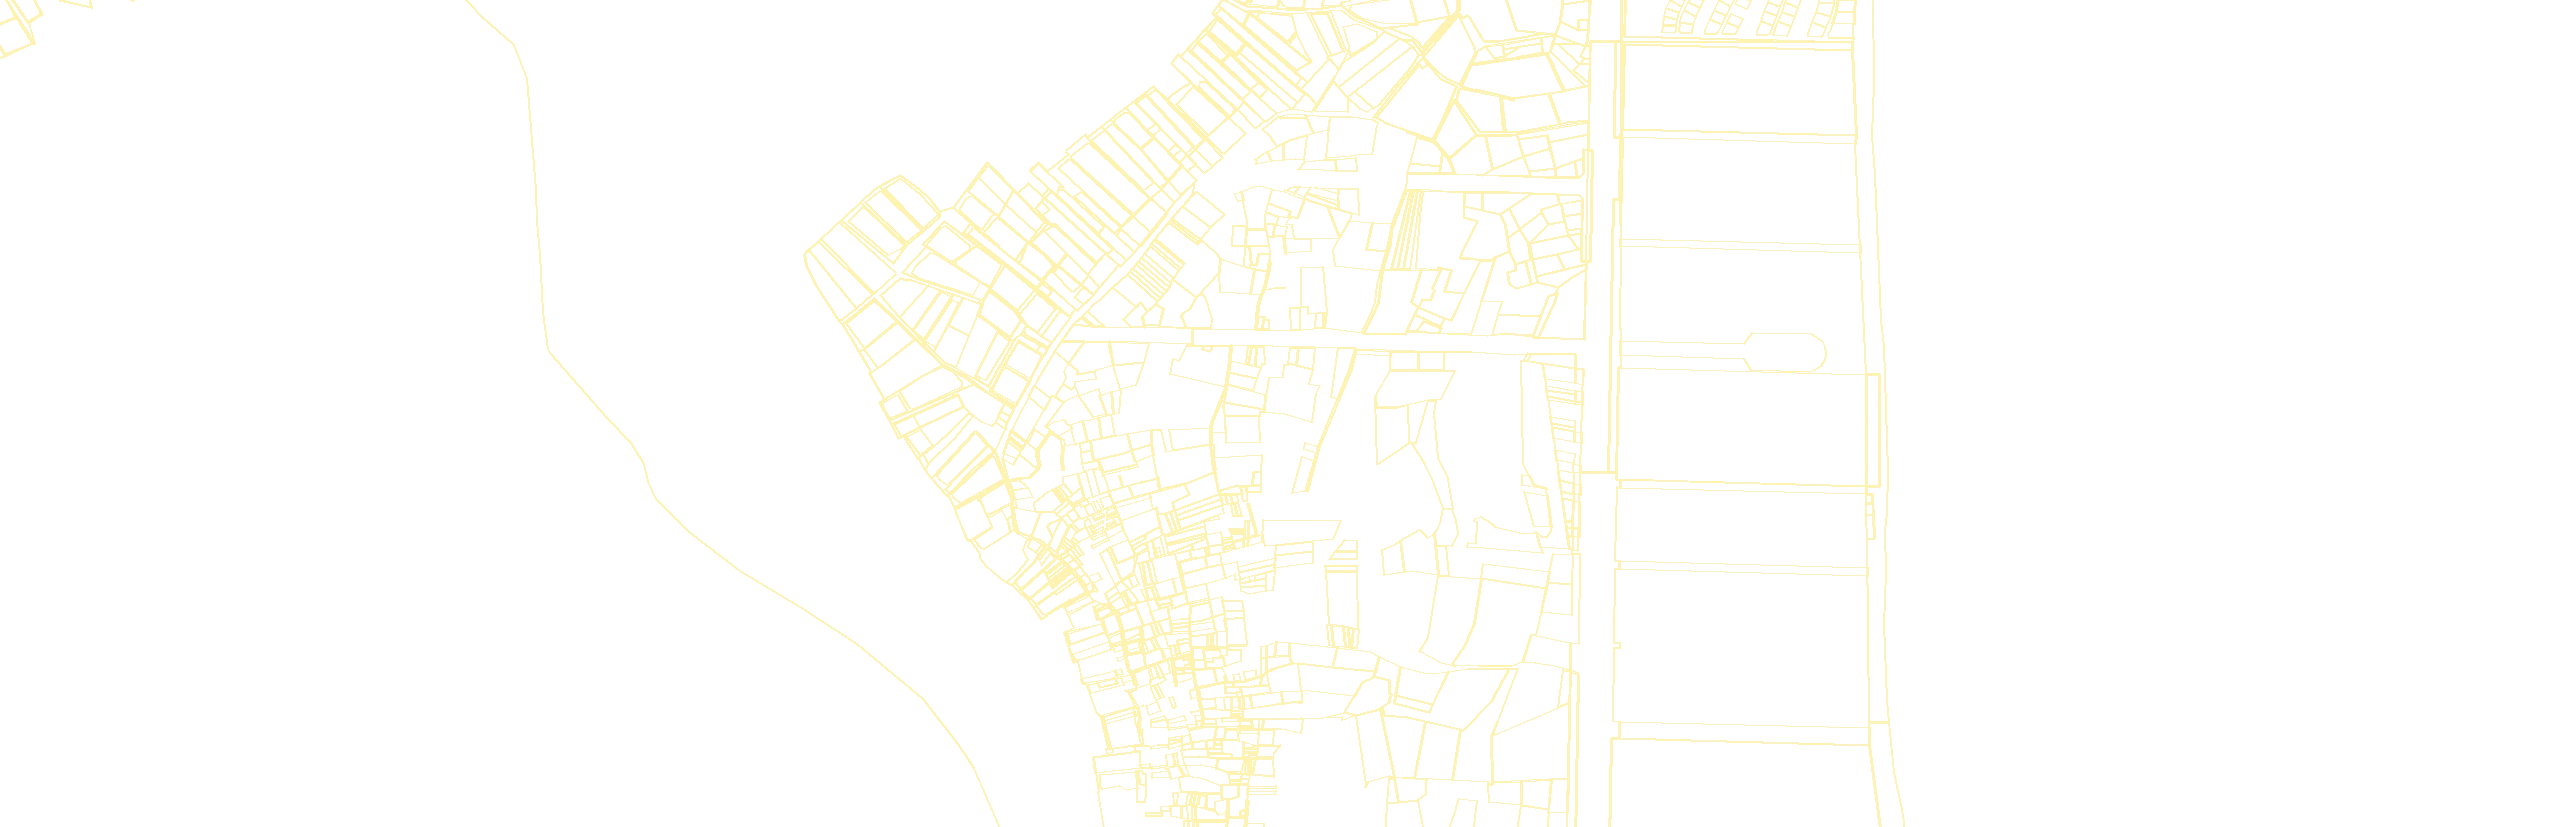
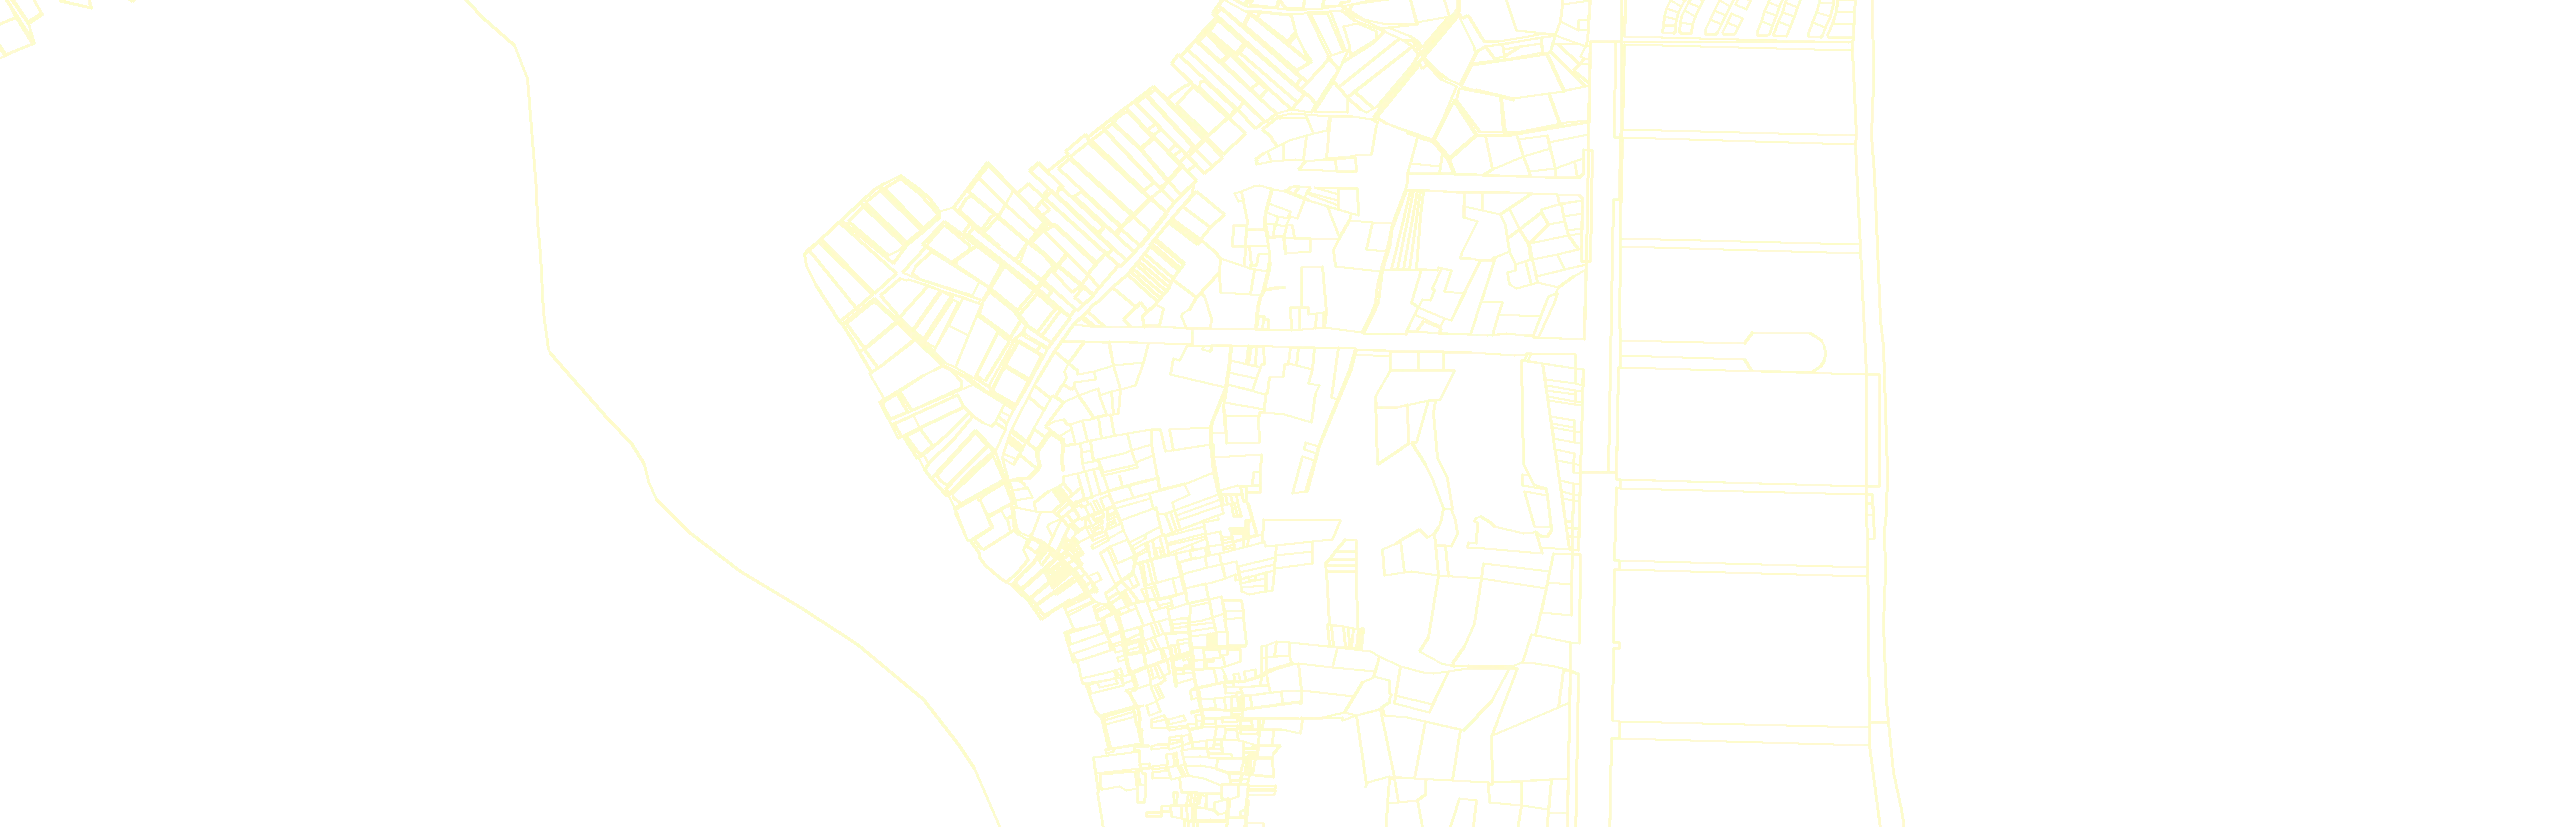
Mau 19: bo ranh ve tay, dung RANH THUA THAT cua web
- Ban thiet ke ve ranh thua va may chu "LUC" BANG TAY men theo bo ruong trong
  tam anh goc. Nen nay da doi thanh ban do quy hoach that nen may net do nam lac
  long, cat ngang ban do — dung cho chu du an bao "mau 19 dang sai".
- Nay thay bang RANH THUA THAT: lop anh dung tu bang `dia_chinh` (900 thua vung
  Cam Hai Dong – Bai Dai), chong khit voi ban do quy hoach vi cung mot khung toa
  do. Ve day 3px, mau sang cho noi tren nen ban do.
- Chu giai sua lai cho dung thu dang hien: "Ban do quy hoach / Anh ve tinh /
  Ranh thua that".
  ⚠ Thu tu cac dong thay chu CO QUAN TRONG — de sai thu tu thi dong sau thay
     chong len ket qua cua dong truoc ("Ranh thua that" thanh "Anh ve tinh that").

diff --git a/apps/frontend/src/components/banner11/mauBanner.ts b/apps/frontend/src/components/banner11/mauBanner.ts
@@ -109,6 +109,6 @@ export const MAU_BANNER: MauBanner[] = [
   {
     "lop": "st-b6",
     "ten": "Ảnh thật chuyển thành bản đồ quy hoạch",
-    "html": "<div class=\"banner st-b6\" data-cycle=\"9000\">\n    <svg class=\"fill-svg\" viewBox=\"0 40 1000 323\" preserveAspectRatio=\"xMidYMid slice\" aria-hidden=\"true\">\n      <image href=\"/banner11/px-35995788-2000.webp\" width=\"1000\" height=\"750\" preserveAspectRatio=\"none\"/>\n    </svg>\n    <div class=\"b6-map\" data-at=\"800\"><div class=\"b6-inner\">\n      <svg viewBox=\"0 40 1000 323\" preserveAspectRatio=\"xMidYMid slice\" role=\"img\" aria-label=\"Ảnh đồng lúa Cam Lâm chuyển thành bản đồ quy hoạch\">\n        <defs>\n          <filter id=\"c19Plan\" x=\"0\" y=\"0\" width=\"100%\" height=\"100%\" color-interpolation-filters=\"sRGB\">\n            <feGaussianBlur in=\"SourceGraphic\" stdDeviation=\"3\" result=\"sb\"/>\n            <feColorMatrix in=\"sb\" type=\"matrix\" values=\".2126 .7152 .0722 0 0  .2126 .7152 .0722 0 0  .2126 .7152 .0722 0 0  0 0 0 1 0\" result=\"gray\"/>\n            <feComponentTransfer in=\"gray\" result=\"base\"><feFuncR type=\"discrete\" tableValues=\".92 .97 .99 1\"/><feFuncG type=\"discrete\" tableValues=\".82 .89 .95 .98\"/><feFuncB type=\"discrete\" tableValues=\".36 .5 .66 .84\"/></feComponentTransfer>\n            <!-- cây xanh: G lớn hơn R (khác lúa chín) và lớn hơn B (khác máy gặt màu xanh ngọc) -->\n            <feColorMatrix in=\"sb\" type=\"matrix\" values=\"0 0 0 0 0  0 0 0 0 0  0 0 0 0 0  -25 25 0 0 0\" result=\"gA\"/>\n            <feComponentTransfer in=\"gA\" result=\"g1\"><feFuncA type=\"discrete\" tableValues=\"0 1\"/></feComponentTransfer>\n            <feColorMatrix in=\"sb\" type=\"matrix\" values=\"0 0 0 0 0  0 0 0 0 0  0 0 0 0 0  0 10 -10 0 0\" result=\"bA\"/>\n            <feComponentTransfer in=\"bA\" result=\"g2\"><feFuncA type=\"discrete\" tableValues=\"0 1\"/></feComponentTransfer>\n            <feFlood flood-color=\"#5fae55\" result=\"gcol\"/>\n            <feComposite in=\"gcol\" in2=\"g1\" operator=\"in\" result=\"gc1\"/>\n            <feComposite in=\"gc1\" in2=\"g2\" operator=\"in\" result=\"green\"/>\n            <feConvolveMatrix in=\"gray\" order=\"3\" kernelMatrix=\"-1 -1 -1 -1 8 -1 -1 -1 -1\" preserveAlpha=\"true\" result=\"edge\"/>\n            <feColorMatrix in=\"edge\" type=\"matrix\" values=\"0 0 0 0 .55  0 0 0 0 .34  0 0 0 0 .14  1.6 1.6 1.6 0 -.46\" result=\"lines\"/>\n            <feMerge><feMergeNode in=\"base\"/><feMergeNode in=\"green\"/><feMergeNode in=\"lines\"/></feMerge>\n          </filter>\n        </defs>\n        <image href=\"/banner11/qh-cam-lam-rong.webp\" x=\"0\" y=\"40\" width=\"1000\" height=\"323\" preserveAspectRatio=\"xMidYMid slice\"/>\n        <g fill=\"none\" stroke=\"#7a3e12\" stroke-width=\"2.6\" stroke-linejoin=\"round\" opacity=\".9\"><path d=\"M700 108L750 148L800 181L850 214L900 247L950 284L1000 318L1000 420L950 437L900 453L850 469L800 486L760 506L710 524L650 502L600 486L560 474L500 458L460 444L400 430L370 421L346 390L362 366L378 330L434 292L500 254L550 226L600 185L650 150Z\"/><path d=\"M258 8L320 26L407 50L500 70L580 82L640 92L700 108L650 150L600 185L550 226L500 254L434 292L378 330L321 298L258 264L201 236L150 198L148 150L140 120L134 101L158 72L205 40Z\"/><path d=\"M700 108L730 86L760 72L800 60L850 50L900 45L1000 38L1000 318L950 284L900 247L850 214L800 181L750 148Z\"/><path d=\"M370 421L400 430L460 444L500 458L560 474L600 486L650 502L710 524L722 550L740 598L760 635L790 675L820 715L840 750L350 750L330 675L312 625L300 580L285 524L282 475L300 455L330 430Z\"/><path d=\"M710 524L760 506L800 486L850 469L900 453L950 437L1000 420L1000 750L840 750L820 715L790 675L760 635L740 598L722 550Z\"/><path d=\"M0 207L60 203L100 202L150 198L201 236L258 264L321 298L378 330L362 366L346 390L300 412L250 432L202 452L150 457L100 467L50 482L0 497Z\"/><path d=\"M0 497L50 482L100 467L150 457L202 452L230 520L254 600L275 680L290 750L0 750Z\"/></g>\n        <g font-family=\"Inter, system-ui, sans-serif\" font-size=\"20\" font-weight=\"800\" fill=\"#7a3e12\" text-anchor=\"middle\" style=\"paint-order:stroke;stroke:rgba(255,250,220,.85);stroke-width:4px\"><text x=\"692\" y=\"340\">LUC</text><text x=\"376\" y=\"157\">LUC</text><text x=\"892\" y=\"146\">LUC</text><text x=\"148\" y=\"341\">LUC</text></g>\n      </svg>\n    </div></div>\n    <i class=\"b6-scan\" data-at=\"800\" aria-hidden=\"true\"></i>\n    <div class=\"layer grad-l\" style=\"z-index:5\"></div>\n    <div class=\"b-text\">\n      <span class=\"kicker fx-up\" data-at=\"200\" data-once>Tra cứu quy hoạch</span>\n      <h3 class=\"b-title lines\" data-at=\"400\" data-once><span class=\"line\"><span class=\"li\" style=\"--i:0\">Từ ảnh thật</span></span><span class=\"line\"><span class=\"li\" style=\"--i:1\">đến bản đồ quy hoạch</span></span></h3>\n      <p class=\"b-sub fx-up\" data-at=\"900\" data-once>Biết ngay thửa đất thuộc loại đất nào, ranh giới tới đâu.</p>\n      <div class=\"fx-pop\" data-at=\"1300\" data-once><a class=\"cta\" href=\"#\">Tra cứu ngay <span aria-hidden=\"true\">→</span></a></div>\n    </div>\n    <div class=\"b6-legend\">\n      <span class=\"chip\" data-at=\"3200\" data-out=\"7400\"><i style=\"background:#f6e27a\"></i>LUC · Đất trồng lúa</span>\n      <span class=\"chip\" data-at=\"3400\" data-out=\"7400\"><i style=\"background:#5fae55\"></i>Cây xanh</span>\n      <span class=\"chip\" data-at=\"3600\" data-out=\"7400\"><i style=\"background:#7a3e12;height:3px;border-radius:2px\"></i>Ranh thửa</span>\n    </div>\n  </div>"
+    "html": "<div class=\"banner st-b6\" data-cycle=\"9000\">\n    <svg class=\"fill-svg\" viewBox=\"0 40 1000 323\" preserveAspectRatio=\"xMidYMid slice\" aria-hidden=\"true\">\n      <image href=\"/banner11/px-35995788-2000.webp\" width=\"1000\" height=\"750\" preserveAspectRatio=\"none\"/>\n    </svg>\n    <div class=\"b6-map\" data-at=\"800\"><div class=\"b6-inner\">\n      <svg viewBox=\"0 40 1000 323\" preserveAspectRatio=\"xMidYMid slice\" role=\"img\" aria-label=\"Ảnh thật chuyển thành bản đồ quy hoạch Cam Lâm\">\n        <defs>\n          <filter id=\"c19Plan\" x=\"0\" y=\"0\" width=\"100%\" height=\"100%\" color-interpolation-filters=\"sRGB\">\n            <feGaussianBlur in=\"SourceGraphic\" stdDeviation=\"3\" result=\"sb\"/>\n            <feColorMatrix in=\"sb\" type=\"matrix\" values=\".2126 .7152 .0722 0 0  .2126 .7152 .0722 0 0  .2126 .7152 .0722 0 0  0 0 0 1 0\" result=\"gray\"/>\n            <feComponentTransfer in=\"gray\" result=\"base\"><feFuncR type=\"discrete\" tableValues=\".92 .97 .99 1\"/><feFuncG type=\"discrete\" tableValues=\".82 .89 .95 .98\"/><feFuncB type=\"discrete\" tableValues=\".36 .5 .66 .84\"/></feComponentTransfer>\n            <!-- cây xanh: G lớn hơn R (khác lúa chín) và lớn hơn B (khác máy gặt màu xanh ngọc) -->\n            <feColorMatrix in=\"sb\" type=\"matrix\" values=\"0 0 0 0 0  0 0 0 0 0  0 0 0 0 0  -25 25 0 0 0\" result=\"gA\"/>\n            <feComponentTransfer in=\"gA\" result=\"g1\"><feFuncA type=\"discrete\" tableValues=\"0 1\"/></feComponentTransfer>\n            <feColorMatrix in=\"sb\" type=\"matrix\" values=\"0 0 0 0 0  0 0 0 0 0  0 0 0 0 0  0 10 -10 0 0\" result=\"bA\"/>\n            <feComponentTransfer in=\"bA\" result=\"g2\"><feFuncA type=\"discrete\" tableValues=\"0 1\"/></feComponentTransfer>\n            <feFlood flood-color=\"#5fae55\" result=\"gcol\"/>\n            <feComposite in=\"gcol\" in2=\"g1\" operator=\"in\" result=\"gc1\"/>\n            <feComposite in=\"gc1\" in2=\"g2\" operator=\"in\" result=\"green\"/>\n            <feConvolveMatrix in=\"gray\" order=\"3\" kernelMatrix=\"-1 -1 -1 -1 8 -1 -1 -1 -1\" preserveAlpha=\"true\" result=\"edge\"/>\n            <feColorMatrix in=\"edge\" type=\"matrix\" values=\"0 0 0 0 .55  0 0 0 0 .34  0 0 0 0 .14  1.6 1.6 1.6 0 -.46\" result=\"lines\"/>\n            <feMerge><feMergeNode in=\"base\"/><feMergeNode in=\"green\"/><feMergeNode in=\"lines\"/></feMerge>\n          </filter>\n        </defs>\n        <image href=\"/banner11/qh-cam-lam-rong.webp\" x=\"0\" y=\"40\" width=\"1000\" height=\"323\" preserveAspectRatio=\"xMidYMid slice\"/>\n        <image href=\"/banner11/m19-ranh-thua.webp\" x=\"0\" y=\"40\" width=\"1000\" height=\"323\" preserveAspectRatio=\"xMidYMid slice\" opacity=\".92\"/>\n      </svg>\n    </div></div>\n    <i class=\"b6-scan\" data-at=\"800\" aria-hidden=\"true\"></i>\n    <div class=\"layer grad-l\" style=\"z-index:5\"></div>\n    <div class=\"b-text\">\n      <span class=\"kicker fx-up\" data-at=\"200\" data-once>Tra cứu quy hoạch</span>\n      <h3 class=\"b-title lines\" data-at=\"400\" data-once><span class=\"line\"><span class=\"li\" style=\"--i:0\">Từ ảnh thật</span></span><span class=\"line\"><span class=\"li\" style=\"--i:1\">đến bản đồ quy hoạch</span></span></h3>\n      <p class=\"b-sub fx-up\" data-at=\"900\" data-once>Biết ngay thửa đất thuộc loại đất nào, ranh giới tới đâu.</p>\n      <div class=\"fx-pop\" data-at=\"1300\" data-once><a class=\"cta\" href=\"#\">Tra cứu ngay <span aria-hidden=\"true\">→</span></a></div>\n    </div>\n    <div class=\"b6-legend\">\n      <span class=\"chip\" data-at=\"3200\" data-out=\"7400\"><i style=\"background:#f6e27a\"></i>Bản đồ quy hoạch</span>\n      <span class=\"chip\" data-at=\"3400\" data-out=\"7400\"><i style=\"background:#5fae55\"></i>Ảnh vệ tinh</span>\n      <span class=\"chip\" data-at=\"3600\" data-out=\"7400\"><i style=\"background:#7a3e12;height:3px;border-radius:2px\"></i>Ranh thửa thật</span>\n    </div>\n  </div>"
   }
 ];

diff --git a/scripts/banner11/tach-banner.py b/scripts/banner11/tach-banner.py
@@ -78,6 +78,19 @@ BO_MAU = [
 
 # ── SỬA CHỮ: {số thứ tự mẫu: [(chữ cũ, chữ mới), ...]} ───────────────────────
 SUA_CHU = {
+    # Mẫu 19: nền nay là bản đồ quy hoạch THẬT và ranh thửa THẬT của web, nên
+    # phần chú giải phải nói đúng thứ đang hiện, không còn "LUC · Đất trồng lúa"
+    # vẽ tay nữa.
+    # ⚠ Thứ tự các dòng ở đây CÓ QUAN TRỌNG: thay xong dòng trên thì dòng dưới
+    #    sẽ chạy trên kết quả đã thay. Trước đây để "Cây xanh"→"Ranh thửa thật"
+    #    rồi "Ranh thửa"→"Ảnh vệ tinh" nên nó thay chồng thành "Ảnh vệ tinh thật".
+    19: [
+        ('LUC · Đất trồng lúa', 'Bản đồ quy hoạch'),
+        ('Cây xanh', 'Ảnh vệ tinh'),
+        ('Ranh thửa', 'Ranh thửa thật'),
+        ('Ảnh đồng lúa Cam Lâm chuyển thành bản đồ quy hoạch',
+         'Ảnh thật chuyển thành bản đồ quy hoạch Cam Lâm'),
+    ],
     # Mẫu 14 đã đổi sang ảnh tháp gạch, không còn mái ngói nào → sửa chữ cho
     # khớp ảnh. Vẫn viết chung chung, không nêu tên di tích (xem ghi chú DOI_ANH).
     14: [
@@ -113,9 +126,20 @@ ANH_GIA_BAN_DO = ('<image href="https://images.pexels.com/photos/35995788/pexels
                   'preserveAspectRatio="none" filter="url(#c19Plan)"/>')
 ANH_BAN_DO_THAT = ('<image href="/banner11/qh-cam-lam-rong.webp" x="0" y="40" width="1000" height="323" '
                    'preserveAspectRatio="xMidYMid slice"/>')
+#    Mẫu 19 còn một chỗ giả nữa: RANH THỬA và mấy chữ "LUC" là VẼ TAY men theo
+#    bờ ruộng trong tấm ảnh gốc. Nay nền đã là bản đồ quy hoạch thật nên mấy nét
+#    đó nằm lạc lõng, cắt ngang bản đồ, nhìn rất sai.
+#    Thay bằng RANH THỬA THẬT: lớp ảnh dựng từ bảng `dia_chinh` (900 thửa ở vùng
+#    Cam Hải Đông – Bãi Dài), chồng khít với bản đồ quy hoạch vì cùng một khung
+#    toạ độ. Xem scripts/banner11/dung-anh-mau19.py.
+RANH_VE_TAY = ''' <g fill="none" stroke="#7a3e12" stroke-width="2.6" stroke-linejoin="round" opacity=".9"><path d="M700 108L750 148L800 181L850 214L900 247L950 284L1000 318L1000 420L950 437L900 453L850 469L800 486L760 506L710 524L650 502L600 486L560 474L500 458L460 444L400 430L370 421L346 390L362 366L378 330L434 292L500 254L550 226L600 185L650 150Z"/><path d="M258 8L320 26L407 50L500 70L580 82L640 92L700 108L650 150L600 185L550 226L500 254L434 292L378 330L321 298L258 264L201 236L150 198L148 150L140 120L134 101L158 72L205 40Z"/><path d="M700 108L730 86L760 72L800 60L850 50L900 45L1000 38L1000 318L950 284L900 247L850 214L800 181L750 148Z"/><path d="M370 421L400 430L460 444L500 458L560 474L600 486L650 502L710 524L722 550L740 598L760 635L790 675L820 715L840 750L350 750L330 675L312 625L300 580L285 524L282 475L300 455L330 430Z"/><path d="M710 524L760 506L800 486L850 469L900 453L950 437L1000 420L1000 750L840 750L820 715L790 675L760 635L740 598L722 550Z"/><path d="M0 207L60 203L100 202L150 198L201 236L258 264L321 298L378 330L362 366L346 390L300 412L250 432L202 452L150 457L100 467L50 482L0 497Z"/><path d="M0 497L50 482L100 467L150 457L202 452L230 520L254 600L275 680L290 750L0 750Z"/></g>
+        <g font-family="Inter, system-ui, sans-serif" font-size="20" font-weight="800" fill="#7a3e12" text-anchor="middle" style="paint-order:stroke;stroke:rgba(255,250,220,.85);stroke-width:4px"><text x="692" y="340">LUC</text><text x="376" y="157">LUC</text><text x="892" y="146">LUC</text><text x="148" y="341">LUC</text></g> '''.strip()
+RANH_THAT = ('<image href="/banner11/m19-ranh-thua.webp" x="0" y="40" width="1000" height="323" '
+             'preserveAspectRatio="xMidYMid slice" opacity=".92"/>')
+
 THAY_DOAN = {
     9: [(BAN_DO_VE_TAY, BAN_DO_THAT)],
-    19: [(ANH_GIA_BAN_DO, ANH_BAN_DO_THAT)],
+    19: [(ANH_GIA_BAN_DO, ANH_BAN_DO_THAT), (RANH_VE_TAY, RANH_THAT)],
     12: [
         ('scale="10"', 'scale="4"'),                       # gợn nhẹ hẳn đi
         ('offset=".15" stop-color="#fff"', 'offset=".58" stop-color="#fff"'),  # chừa phần có thuyền

diff --git a/scripts/banner11/dung-anh-mau19.py b/scripts/banner11/dung-anh-mau19.py
@@ -176,7 +176,7 @@ def main():
     but = ImageDraw.Draw(lop)
     for d in diem_vung:
         if len(d) >= 4:
-            but.line(d + [d[0]], fill=(255, 241, 170, 235), width=2)
+            but.line(d + [d[0]], fill=(255, 250, 205, 255), width=3)   # dày và sáng cho nổi trên bản đồ
     p3 = os.path.join(RA_ANH, 'm19-ranh-thua.webp')
     lop.save(p3, 'WEBP', quality=88, method=6, lossless=False)
     print(f'  ✓ {os.path.basename(p3)}  {os.path.getsize(p3)//1024} KB  ({len(diem_vung)} thửa)')
